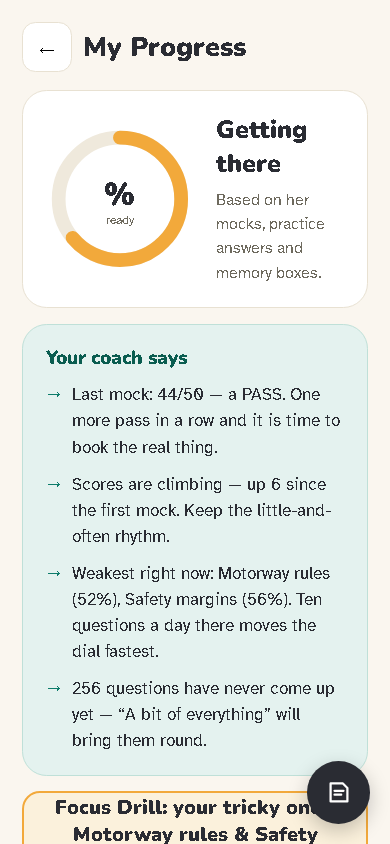
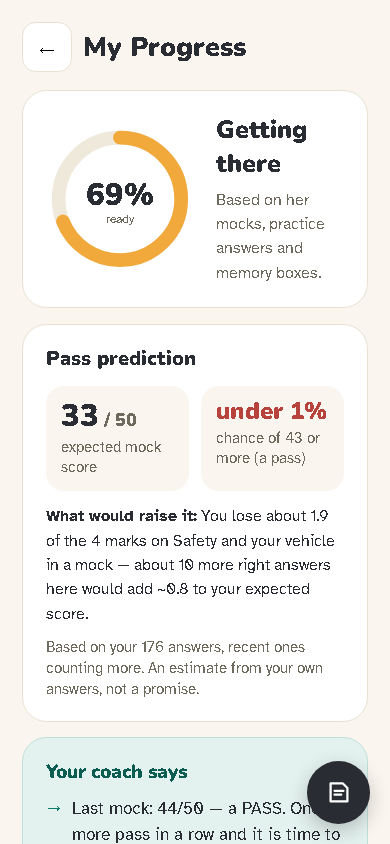
fix(app): the readiness dial shows its number, not just "%" (#12 D)
The dial's number was an SVG <text> holding {{ readyPct }}%. The dc runtime renders every
interpolated value as an HTML <span>, and SVG does not draw HTML inside <text>, so only "%"
appeared. The number and "ready" are now HTML laid over the SVG ring. A test checks that no
SVG <text> anywhere in the page holds a {{ value }}.

How-to guide (help.html #progress): the "Known problem" box about the missing number is
removed, and help/img/progress.png is retaken (390x844, light) now that the number shows.

Browser check, 390 and 1280, light and dark: the dial reads "69% ready", centred in the ring.

diff --git a/Theory Trainer.dc.html b/Theory Trainer.dc.html
@@ -1026,12 +1026,18 @@ input,select{font-family:inherit}
     <div style="font-family:'Nunito',sans-serif;font-weight:900;font-size:24px;flex:1">My Progress</div>
   </div>
   <div style="background:var(--tt-bg-fff);border:1px solid var(--tt-bd-e8e1d2);border-radius:22px;padding:20px;display:flex;align-items:center;gap:20px">
-    <svg viewBox="0 0 140 140" style="width:132px;flex:none">
-      <circle cx="70" cy="70" r="58" style="stroke:var(--tt-bd-efe9dc)" stroke-width="13" fill="none"></circle>
-      <circle cx="70" cy="70" r="58" stroke="{{ readyColor }}" stroke-width="13" fill="none" stroke-linecap="round" stroke-dasharray="{{ readyDash }}" transform="rotate(-90 70 70)"></circle>
-      <text x="70" y="76" text-anchor="middle" font-family="Nunito,sans-serif" font-weight="900" font-size="30" style="fill:var(--tt-fg-2a2c33)">{{ readyPct }}%</text>
-      <text x="70" y="94" text-anchor="middle" font-size="11" style="fill:var(--tt-fg-6e6a5e)">ready</text>
-    </svg>
+    <!-- The number is HTML laid over the ring: a {{ value }} inside SVG <text> becomes an HTML
+         <span>, which SVG never draws, so the dial showed only "%" (issue #12 D) -->
+    <div data-tt-dial style="position:relative;width:132px;height:132px;flex:none">
+      <svg aria-hidden="true" viewBox="0 0 140 140" style="display:block;width:132px;height:132px">
+        <circle cx="70" cy="70" r="58" style="stroke:var(--tt-bd-efe9dc)" stroke-width="13" fill="none"></circle>
+        <circle cx="70" cy="70" r="58" stroke="{{ readyColor }}" stroke-width="13" fill="none" stroke-linecap="round" stroke-dasharray="{{ readyDash }}" transform="rotate(-90 70 70)"></circle>
+      </svg>
+      <div style="position:absolute;inset:0;display:flex;flex-direction:column;align-items:center;justify-content:center;gap:3px;padding-top:6px">
+        <span style="font-family:'Nunito',sans-serif;font-weight:900;font-size:28px;line-height:1;color:var(--tt-fg-2a2c33)">{{ readyPct }}%</span>
+        <span style="font-size:10.5px;line-height:1;color:var(--tt-fg-6e6a5e)">ready</span>
+      </div>
+    </div>
     <div style="flex:1">
       <div style="font-family:'Nunito',sans-serif;font-weight:900;font-size:22px">{{ readyLabel }}</div>
       <div style="font-size:14.5px;color:var(--tt-fg-6e6a5e);margin-top:6px;line-height:1.5">{{ readySub }}</div>

diff --git a/help.html b/help.html
@@ -454,7 +454,6 @@
               <li>10%: how much of the question bank you've seen.</li>
             </ul>
             <p>Before your first mock the score can't go above 60 — a mock is the best evidence, so do one when you feel ready.</p>
-            <p class="known"><strong>Known problem:</strong> at the moment the number in the middle of the dial doesn't show — only the "%" does. The ring and the label are right, and the admin dashboard shows the number. This is being fixed.</p>
             <h3>Your coach says</h3>
             <p>A few plain sentences about your last mock, whether your scores are climbing, your weakest topic, and how many questions you haven't seen yet — with a <strong>Focus Drill</strong> button and a link to My answers.</p>
             <h3>Your topics</h3>
@@ -463,7 +462,7 @@
             <p>A chart of your mock scores against the pass mark of 43, and a few short tips for your weakest topics.</p>
           </div>
           <figure class="shot">
-            <a href="help/img/progress.png"><img src="help/img/progress.png" width="390" height="844" alt="My Progress: the readiness dial labelled Getting there, and Your coach says with four lines of advice." loading="lazy"></a>
+            <a href="help/img/progress.png"><img src="help/img/progress.png" width="390" height="844" alt="My Progress: the readiness dial showing 69% ready, labelled Getting there, and Pass prediction below it." loading="lazy"></a>
             <figcaption>My Progress</figcaption>
           </figure>
         </div>

diff --git a/tests/app-files.test.js b/tests/app-files.test.js
@@ -495,7 +495,8 @@ test('#12 C: on question screens the notes button sits in the page, never floati
 test('#12 D: no {{ value }} inside SVG text, so the readiness number is drawn', () => {
   // Found 2026-09-24: the dial's <text>{{ readyPct }}%</text> became <text><span>38</span>%</text>,
   // and SVG does not draw an HTML <span>: only "%" showed.
-  const texts = [...app.matchAll(/<text\b[^>]*>([\s\S]*?)<\/text>/g)].map(m => m[1]);
+  const markup = app.replace(/<!--[\s\S]*?-->/g, '');          // comments may name <text> freely
+  const texts = [...markup.matchAll(/<text\b[^>]*>([\s\S]*?)<\/text>/g)].map(m => m[1]);
   assert.ok(texts.length >= 2, 'expected the chart labels');
   for (const t of texts) assert.doesNotMatch(t, /\{\{/, 'a value inside SVG <text> is never drawn: ' + t);
   const dial = screen('MY PROGRESS (learner)').match(/<div data-tt-dial[\s\S]*?<\/div>\s*<\/div>/);
